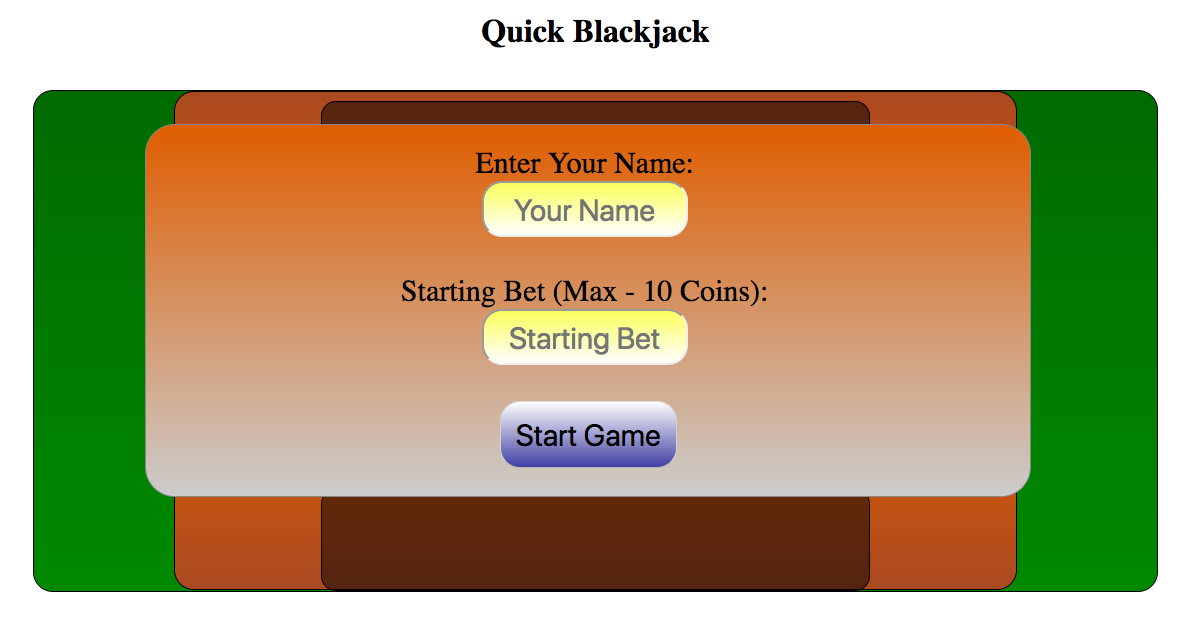
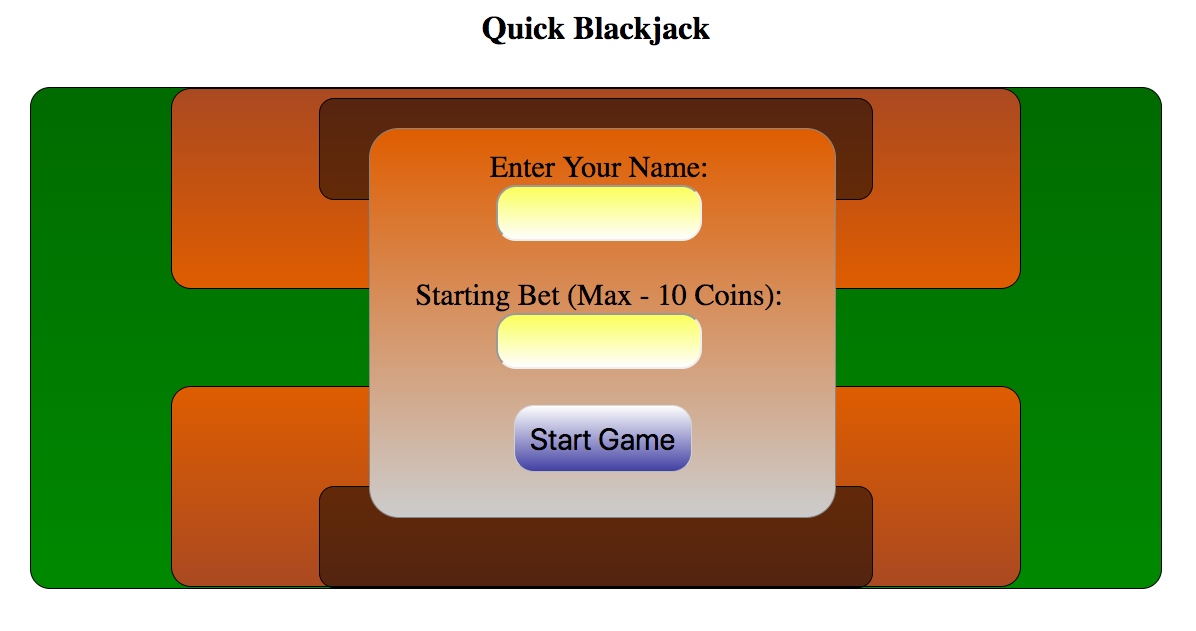
screenshots

diff --git a/index.html b/index.html
@@ -26,7 +26,6 @@
   <h1>Quick Blackjack</h1>
   <br/>
 
-  <!--div class="modal"-->
     <div class="modal-content-newgame">
         <span class="close">&times;</span>
         <label>Enter Your Name:   </label>
@@ -40,9 +39,7 @@
         <button class="modal-newgame-submit" type="submit">Start Game</button>
         </div>
     </div>
-<!--/div-->
 
-<!--div class="modal"-->
   <div class="modal-content">
       <span class="close">&times;</span>
       <label>Next Round</label><hr/-->
@@ -54,7 +51,6 @@
       <p class="getbet-coins"></p>
       </div>
   </div>
-<!--/div-->
 
 
 

diff --git a/src/style.css b/src/style.css
@@ -200,7 +200,7 @@ background: linear-gradient(darkgreen, green);
   border: 1px solid #888;
   width: 30%;
   height: 40%;
-  left: 34%;
+  left: 33.5%;
   border-radius: 30px;
 }
 
@@ -276,7 +276,7 @@ display:none;
   border: 1px solid #888;
   width: 30%;
   height: 50%;
-  left: 34%;
+  left: 33.5%;
   border-radius: 30px;
 }
 
